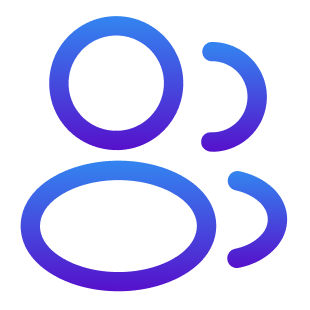
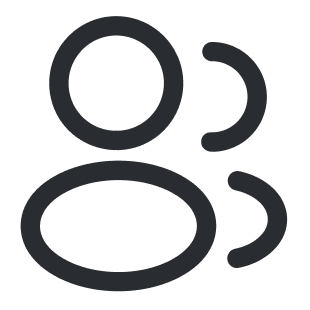
Alpha V1.0.3 Task Bar Change WIP

Changed region(s): [[0.0581, 0.029, 0.6968, 0.9581], [0.6387, 0.1161, 0.871, 0.4935], [0.7258, 0.5516, 0.929, 0.871]]

diff --git a/app/(tabs)/_layout.tsx b/app/(tabs)/_layout.tsx
@@ -3,10 +3,58 @@ import { Tabs, Redirect } from 'expo-router';
 import { Ionicons } from '@expo/vector-icons';
 import { useEffect, useState } from 'react';
 import { getCurrentUser } from 'aws-amplify/auth';
-import { View, ActivityIndicator } from 'react-native';
+import { View, ActivityIndicator, StyleSheet, Text, Image, ImageSourcePropType} from 'react-native';
+import { useSubscriptions } from '../../src/contexts/SubscriptionContext';
+import { TabActions, useLinkProps } from '@react-navigation/native';
+import FriendsScreen from './friends';
+
+// Create our custom TabIcons
+const TabIcon = ({
+  source,
+  color,
+  size,
+  focused,
+  badgeCount
+} : {
+  source: ImageSourcePropType,
+  color: string,
+  size: number,
+  focused: boolean,
+  badgeCount?: number
+}) => {
+  return (
+    <View>
+      <Image
+        source={source}
+        style={[
+          styles.baseIcon,
+          {
+            width: size,
+            height: size,
+            tintColor: color,
+            opacity: focused ? 1 : 0.7,
+          }
+        ]}
+      />
+      {badgeCount !== undefined && badgeCount > 0 && (
+        <View style={styles.badge}>
+          <Text style={styles.badgeText}>
+            {badgeCount > 99 ? '99+' : badgeCount}
+          </Text>
+        </View>
+      )}
+    </View>
+  );
+};
 
 export default function TabLayout() {
   const [isAuthenticated, setIsAuthenticated] = useState<boolean | null>(null);
+
+  // Fetch the number of friends that are online and the numebr of subscriptions.
+  const { pendingRequests, friends } = useSubscriptions();
+
+  // Fetch the number of friends currently online sharing their locations
+  const friendsOnline = friends.filter(f => f.isLocationSharing).length;
 
   useEffect(() => {
     checkAuth();
@@ -42,7 +90,7 @@ export default function TabLayout() {
         tabBarActiveTintColor: '#4CAF50',
         tabBarInactiveTintColor: 'gray',
         headerStyle: {
-          backgroundColor: '#4CAF50',
+          backgroundColor: '#A910F5',
         },
         headerTintColor: '#fff',
         headerTitleStyle: {
@@ -54,12 +102,22 @@ export default function TabLayout() {
         name="index"
         options={{
           title: 'Map',
-          headerTitle: 'LocationLink',
-          tabBarIcon: ({ color, size, focused }) => (
-            <Ionicons
-              name={focused ? 'map' : 'map-outline'}
-              size={size}
-              color={color}
+          headerShown: true,
+          headerTitle: () => (
+            <View style={styles.headerContainer}>
+              <Image
+                style={styles.headerImg}
+                source={require('../../assets/task_bar_icon.png')}
+              />
+              <Text style={styles.headerText}>
+                LocationLink
+              </Text>
+            </View>
+          ),
+          tabBarIcon: (props) => (
+            <TabIcon
+              {...props}
+              source={require('../../assets/map_icon.png')}
             />
           ),
         }}
@@ -67,13 +125,20 @@ export default function TabLayout() {
       <Tabs.Screen
         name="friends"
         options={{
+          headerShown: true,
           title: 'Friends',
-          headerTitle: 'My Friends',
-          tabBarIcon: ({ color, size, focused }) => (
-            <Ionicons
-              name={focused ? 'people' : 'people-outline'}
-              size={size}
-              color={color}
+          headerTitle: () => (
+            <View style={styles.headerContainer}>
+              <Text style={styles.headerText}>
+                My Friends
+              </Text>
+            </View>
+          ),
+          tabBarIcon: (props) => (
+            <TabIcon
+              {...props}
+              source={require('../../assets/friends_icon.png')}
+              badgeCount={friendsOnline}
             />
           ),
         }}
@@ -81,13 +146,19 @@ export default function TabLayout() {
       <Tabs.Screen
         name="requests"
         options={{
+          headerShown: true,
           title: 'Requests',
-          headerTitle: 'Friend Requests',
-          tabBarIcon: ({ color, size, focused }) => (
-            <Ionicons
-              name={focused ? 'person-add' : 'person-add-outline'}
-              size={size}
-              color={color}
+          headerTitle: () => (
+            <View style={styles.headerContainer}>
+              <Text style={styles.headerText}>
+                My Friend Requests
+              </Text>
+            </View>
+          ),
+          tabBarIcon: (props) => (
+            <TabIcon
+              {...props}
+              source={require('../../assets/add_friend_icon.png')}
             />
           ),
         }}
@@ -95,13 +166,20 @@ export default function TabLayout() {
       <Tabs.Screen
         name="profile"
         options={{
+          headerShown: true,
           title: 'Profile',
-          headerTitle: 'My Profile',
-          tabBarIcon: ({ color, size, focused }) => (
-            <Ionicons
-              name={focused ? 'person' : 'person-outline'}
-              size={size}
-              color={color}
+          headerTitle: () => (
+            <View style={styles.headerContainer}>
+              <Text style={styles.headerText}>
+                Profile
+              </Text>
+            </View>
+          ),
+          tabBarIcon: (props) => (
+            <TabIcon
+              {...props}
+              source={require('../../assets/profile_icon.png')}
+              badgeCount={pendingRequests.length}
             />
           ),
         }}
@@ -109,3 +187,26 @@ export default function TabLayout() {
     </Tabs>
   );
 }
+
+const styles = StyleSheet.create({
+  baseIcon: {
+    resizeMode: 'contain' as const,
+  },
+  headerContainer: {
+    justifyContent: 'center',
+  },
+  headerImg: {
+    width: 24,
+    height: 24,
+    resizeMode: 'contain',
+  },
+  headerText: {
+    color: '#A910F5',
+  },
+  badge: {
+
+  },
+  badgeText: {
+
+  },
+})

diff --git a/src/screens/SignInScreen.tsx b/src/screens/SignInScreen.tsx
@@ -13,6 +13,7 @@ import {
   ActivityIndicator,
 } from "react-native";
 import { Ionicons } from "@expo/vector-icons";
+import CustomModal from "@/components/modal";
 import { authService } from "../services/authService";
 import { LinearGradient } from "expo-linear-gradient";
 
@@ -22,23 +23,34 @@ export default function SignInScreen() {
   const [email, setEmail] = useState("");
   const [password, setPassword] = useState("");
   const [showPassword, setShowPassword] = useState(false);
-  const [loading, setLoading] = useState(false);
+  const [topLoading, setTopLoading] = useState(false);
+  const [bottomLoading, setBottomLoading] = useState(false);
+  const [modalVisible, setModalVisible] = useState(false);
+  const [modalContent, setModalContent] = useState({
+    title: '',
+    message: '',
+    type: 'error' as 'error' | 'success' | 'warning'
+  });
+
+  const showModal = (title: string, message: string, type: 'error' | 'success' | 'warning' = 'error') => {
+    setModalVisible(true);
+    setModalContent({title, message, type});
+  };
 
   const handleSignIn = async () => {
     if (!email || !password) {
-      Alert.alert("Error", "Please fill in all fields");
+      showModal("Sign In Failed", "One or more required attribute(s) are unfilled", 'error');
       return;
     }
 
-    setLoading(true);
+    setTopLoading(true);
     try {
       await authService.signIn(email, password);
-      Alert.alert("Success", "Welcome back!");
       router.replace("/(tabs)");
     } catch (error: any) {
-      Alert.alert("Error", error.message || "Failed to sign in");
+      showModal("Sign In Failed", error.message || "An error has occured during sign in", 'error');
     } finally {
-      setLoading(false);
+      setTopLoading(false);
     }
   };
 
@@ -59,7 +71,7 @@ export default function SignInScreen() {
         onChangeText={setEmail}
         keyboardType="email-address"
         autoCapitalize="none"
-        editable={!loading}
+        editable={!topLoading}
       />
 
       <View>
@@ -69,7 +81,7 @@ export default function SignInScreen() {
           value={password}
           onChangeText={setPassword}
           secureTextEntry={!showPassword}
-          editable={!loading}
+          editable={!topLoading}
         />
 
         <TouchableOpacity
@@ -85,9 +97,9 @@ export default function SignInScreen() {
       </View>
 
       <TouchableOpacity
-        style={[loading && styles.buttonDisabled]}
+        style={[topLoading && styles.buttonDisabled]}
         onPress={handleSignIn}
-        disabled={loading}
+        disabled={topLoading}
       >
         <LinearGradient
          colors={['#1b3decff', '#9420ceff', '#4709b1ff']}
@@ -96,7 +108,7 @@ export default function SignInScreen() {
           end={{ x: 1, y: 0}}
           style={[styles.button, styles.firstBtn]}
         >
-          {loading ? (
+          {topLoading ? (
             <ActivityIndicator color="white" />
           ) : (
             <Text style={styles.buttonText}>Sign In</Text>
@@ -105,7 +117,7 @@ export default function SignInScreen() {
       </TouchableOpacity>
 
       <TouchableOpacity
-        style={[loading && styles.buttonDisabled]}
+        style={[bottomLoading && styles.buttonDisabled]}
         // onPress={ ** Function that leads to Account Recovery }
         disabled={true} // Change this to loading once function above implemented
       >
@@ -117,7 +129,7 @@ export default function SignInScreen() {
           end={{ x: 1, y: 0}}
           style={styles.button}
         >
-          {loading ? (
+          {bottomLoading ? (
             <ActivityIndicator color="white" />
           ) : (
             <Text style={styles.buttonText}>Forget Password/Recovery</Text>
@@ -125,9 +137,17 @@ export default function SignInScreen() {
         </LinearGradient>
       </TouchableOpacity>
 
-      <TouchableOpacity onPress={() => router.push("/signup")} disabled={loading}>
+      <TouchableOpacity onPress={() => router.push("/signup")} disabled={topLoading && bottomLoading}>
         <Text style={styles.link}>Don’t have an account? Register HERE</Text>
       </TouchableOpacity>
+
+      <CustomModal
+        visible={modalVisible}
+        title={modalContent.title}
+        message={modalContent.message}
+        type={modalContent.type}
+        onClose={() => setModalVisible(false)}
+      />
     </View>
   );
 }

diff --git a/src/services/authService.ts b/src/services/authService.ts
@@ -3,16 +3,24 @@ import { signUp, signIn, signOut, confirmSignUp, getCurrentUser, fetchUserAttrib
 
 export const authService = {
   async signUp(email: string, password: string, username: string, phoneNumber: string) {
+
+    // Build out the user profile and attributes conditionally based on available information
+    const userAttributes: any = {
+      email,
+      preferred_username: username,
+    }
+
+    // Add phone number if provided in a valid format
+    if (phoneNumber && phoneNumber.trim()) {
+      userAttributes.phone_number = phoneNumber;
+    }
+
     const result = await signUp({
       username: email,
-      password,
+      password: password,
       options: {
-        userAttributes: {
-          email,
-          preferred_username: username,
-          phone_number: phoneNumber,
-        },
-      },
+        userAttributes,
+      }
     });
     return result;
   },

diff --git a/src/screens/SignUpScreen.tsx b/src/screens/SignUpScreen.tsx
@@ -279,10 +279,10 @@ export default function SignUpScreen() {
 
         <TextInput
           style={styles.input}
-          placeholder="Phone"
+          placeholder="Phone (Optional)"
           value={phoneNumber}
           onChangeText={setPhoneNumber}
-          keyboardType='number-pad'
+          keyboardType='phone-pad'
           autoCapitalize="none"
           editable={!topLoading}
         />

diff --git a/src/services/dataService.ts b/src/services/dataService.ts
@@ -8,7 +8,8 @@ export const dataService = {
       // Initialize with empty friends array if not provided
       const userDataWithDefaults = {
         ...userData,
-        friends: userData.friends || []
+        friends: userData.friends || [],
+        phoneNumber: userData.phoneNumber || '',
       };
 
       const { data, errors } = await client.models.User.create(userDataWithDefaults);

diff --git a/amplify/data/resource.ts b/amplify/data/resource.ts
@@ -9,7 +9,7 @@ const schema = a.schema({
     .model({
       username: a.string().required(),
       email: a.string().required(),
-      phoneNumber: a.string().required(),
+      phoneNumber: a.string(),
       latitude: a.float(),
       longitude: a.float(),
       locationUpdatedAt: a.datetime(),
